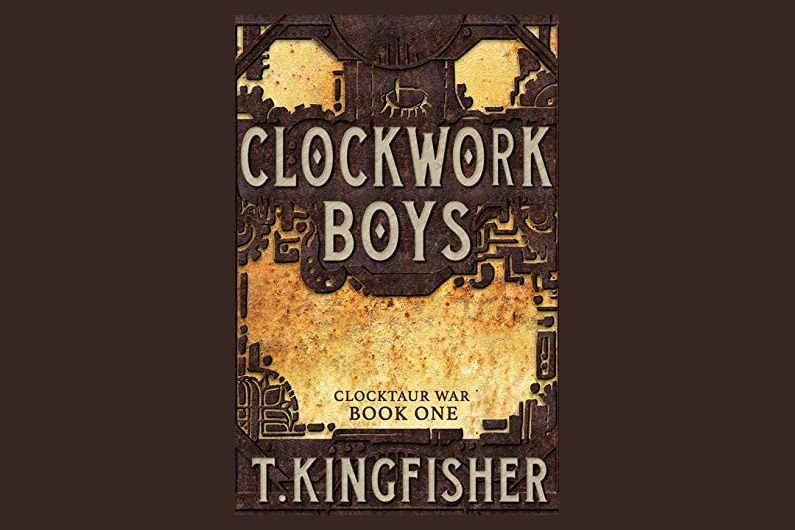
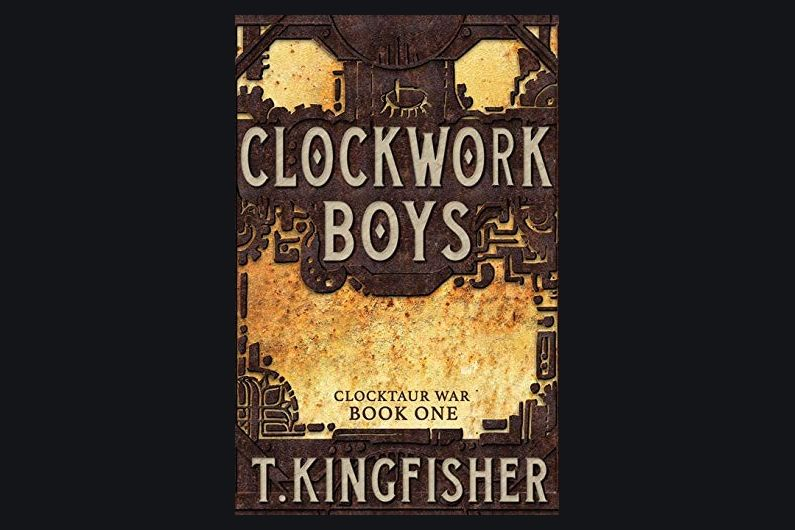
Removed automatic bgcolor from review image generation

diff --git a/cli/commands/createReviewImage.js b/cli/commands/createReviewImage.js
@@ -1,65 +1,6 @@
 // center-image.js
-import sharp from 'sharp';
-import path from 'path';
-import { fileURLToPath } from 'url';
-import fs from 'fs/promises';
-import { createRequire } from 'module';
-
-const require = createRequire(import.meta.url);
-const getPixels = require('get-pixels');
-const quantize = require('quantize');
-const util = require('util');
-
-// Convert getPixels to a promise-based function
-const getPixelsPromise = util.promisify(getPixels);
-
-// Get the directory name in ESM
-const __dirname = path.dirname(fileURLToPath(import.meta.url));
-
-/**
- * Extract an accent color from an image
- * @param {string} imagePath - Path to the image
- * @returns {Promise<string>} - Hex color string
- */
-async function extractAccentColor(imagePath) {
-  try {
-    // Get pixel data from the image
-    const pixels = await getPixelsPromise(imagePath);
-    const pixelData = pixels.data;
-    const colorSamples = [];
-    
-    // Sample pixels (every 10th pixel to improve performance)
-    for (let i = 0; i < pixelData.length; i += 40) {
-      // Only use fully opaque pixels
-      if (pixelData[i + 3] === 255) {
-        colorSamples.push([
-          pixelData[i],     // R
-          pixelData[i + 1], // G
-          pixelData[i + 2]  // B
-        ]);
-      }
-    }
-    
-    // Use color quantization to find dominant colors
-    const colorMap = quantize(colorSamples, 5);
-    const palette = colorMap.palette();
-    
-    // Select the second color from palette (often an accent rather than the most dominant)
-    // If there's not enough colors, use the first one
-    const selectedColor = palette.length > 1 ? palette[1] : palette[0];
-    
-    // Convert RGB to hex
-    const hexColor = `#${selectedColor.map(c => {
-      const hex = c.toString(16);
-      return hex.length === 1 ? '0' + hex : hex;
-    }).join('')}`;
-    
-    return hexColor;
-  } catch (error) {
-    console.error('Error extracting color:', error);
-    return '#FFFFFF'; // Default to white if extraction fails
-  }
-}
+import sharp from "sharp";
+import path from "path";
 
 /**
  * Generate output filename by appending "-featured" to the input filename
@@ -67,92 +8,102 @@ async function extractAccentColor(imagePath) {
  * @returns {string} - Generated output path
  */
 function generateOutputPath(inputPath) {
-  const parsedPath = path.parse(inputPath);
-  return path.join(parsedPath.dir, `${parsedPath.name}-featured${parsedPath.ext}`);
+	const parsedPath = path.parse(inputPath);
+	return path.join(
+		parsedPath.dir,
+		`${parsedPath.name}-featured${parsedPath.ext}`,
+	);
 }
 
 /**
- * Centers an image on a wider background with padding, 3:2 aspect ratio, and extracted background color
+ * Centers an image on a wider background with padding and 3:2 aspect ratio
  * @param {string} inputPath - Path to the input image
  * @param {string|null} outputPath - Path for the output image (optional)
  * @param {number|null} outputWidth - Optional width of the output image
  * @param {number} verticalPadding - Padding to add above and below the image
- * @param {string|null} bgColor - Optional background color override
  */
-async function centerImageWithAccentColor(inputPath, outputPath = null, outputWidth = null, verticalPadding = 15, bgColor = null) {
-  try {
-    // Generate output path if not provided
-    const finalOutputPath = outputPath || generateOutputPath(inputPath);
-    
-    // Get input image metadata
-    const inputMetadata = await sharp(inputPath).metadata();
-    
-    // Calculate output height based on input height plus padding
-    const outputHeight = inputMetadata.height + (verticalPadding * 2);
-    
-    // If outputWidth is not provided, calculate it to achieve 3:2 aspect ratio
-    if (outputWidth === null) {
-      // For 3:2 aspect ratio: width = height * (3/2)
-      outputWidth = Math.round(outputHeight * (3/2));
-    }
-    
-    // Extract accent color if not manually specified
-    const backgroundColor = bgColor || await extractAccentColor(inputPath);
-    
-    // Calculate positioning to center the image
-    const left = Math.floor((outputWidth - inputMetadata.width) / 2);
-    const top = verticalPadding; // Place it with exactly the padding amount from top
-    
-    // Create a blank canvas with the background color
-    await sharp({
-      create: {
-        width: outputWidth,
-        height: outputHeight,
-        channels: 4,
-        background: backgroundColor
-      }
-    })
-    .composite([
-      {
-        input: inputPath,
-        left: left,
-        top: top
-      }
-    ])
-    .toFile(finalOutputPath);
-    
-    console.log(`Successfully created centered image with extracted background color: ${backgroundColor}`);
-    console.log(`Output saved to: ${finalOutputPath}`);
-    console.log(`Output dimensions: ${outputWidth}x${outputHeight} (aspect ratio: ${(outputWidth/outputHeight).toFixed(2)})`);
-  } catch (error) {
-    console.error('Error processing image:', error);
-  }
+async function centerImage(
+	inputPath,
+	outputPath = null,
+	outputWidth = null,
+	verticalPadding = 15,
+) {
+	try {
+		// Generate output path if not provided
+		const finalOutputPath = outputPath || generateOutputPath(inputPath);
+
+		// Set fixed background color
+		const backgroundColor = "#141519";
+
+		// Get input image metadata
+		const inputMetadata = await sharp(inputPath).metadata();
+
+		// Calculate output height based on input height plus padding
+		const outputHeight = inputMetadata.height + verticalPadding * 2;
+
+		// If outputWidth is not provided, calculate it to achieve 3:2 aspect ratio
+		if (outputWidth === null) {
+			// For 3:2 aspect ratio: width = height * (3/2)
+			outputWidth = Math.round(outputHeight * (3 / 2));
+		}
+
+		// Calculate positioning to center the image
+		const left = Math.floor((outputWidth - inputMetadata.width) / 2);
+		const top = verticalPadding; // Place it with exactly the padding amount from top
+
+		// Create a blank canvas with the background color
+		await sharp({
+			create: {
+				width: outputWidth,
+				height: outputHeight,
+				channels: 4,
+				background: backgroundColor,
+			},
+		})
+			.composite([
+				{
+					input: inputPath,
+					left: left,
+					top: top,
+				},
+			])
+			.toFile(finalOutputPath);
+
+		console.log(
+			`Successfully created centered image with background color: ${backgroundColor}`,
+		);
+		console.log(`Output saved to: ${finalOutputPath}`);
+		console.log(
+			`Output dimensions: ${outputWidth}x${outputHeight} (aspect ratio: ${(outputWidth / outputHeight).toFixed(2)})`,
+		);
+	} catch (error) {
+		console.error("Error processing image:", error);
+	}
 }
 
 // Process command line arguments
 const args = process.argv.slice(2);
 
 if (args.length < 1) {
-  console.log(`
-Usage: node center-image.js <inputPath> [outputPath] [outputWidth] [verticalPadding] [bgColor]
+	console.log(`
+Usage: node center-image.js <inputPath> [outputPath] [outputWidth] [verticalPadding]
   - inputPath: Path to the book cover image
   - outputPath: (Optional) Path for the output image (default: inputName-featured.ext)
   - outputWidth: (Optional) Width of the output image in pixels (defaults to 3:2 aspect ratio)
   - verticalPadding: (Optional) Padding above and below in pixels (default: 15)
-  - bgColor: (Optional) Background color override (default: auto-extracted from the image)
-  
-Example: node center-image.js ./book-cover.jpg ./cover-featured.jpg 800 15 "#F5F5F5"
+
+Example: node center-image.js ./book-cover.jpg ./cover-featured.jpg 800 15
   `);
-  process.exit(1);
+	process.exit(1);
 }
 
-const [inputPath, outputPath = null, customWidth, verticalPadding = '15', bgColor = null] = args;
+const [inputPath, outputPath = null, customWidth, verticalPadding = "15"] =
+	args;
 
 // Execute the function with optional parameters
-centerImageWithAccentColor(
-  inputPath,
-  outputPath,
-  customWidth ? parseInt(customWidth, 10) : null,
-  parseInt(verticalPadding, 10),
-  bgColor
+centerImage(
+	inputPath,
+	outputPath,
+	customWidth ? parseInt(customWidth, 10) : null,
+	parseInt(verticalPadding, 10),
 );

diff --git a/eslint.config.js b/eslint.config.js
@@ -4,7 +4,14 @@ import prettier from "eslint-plugin-prettier";
 
 /** @type {import('eslint').Linter.Config[]} */
 export default [
-	{ languageOptions: { globals: globals.browser } },
+	{
+		languageOptions: {
+			globals: {
+				...globals.browser,
+				...globals.node,
+			},
+		},
+	},
 	pluginJs.configs.recommended,
 	{
 		plugins: { prettier: prettier },
